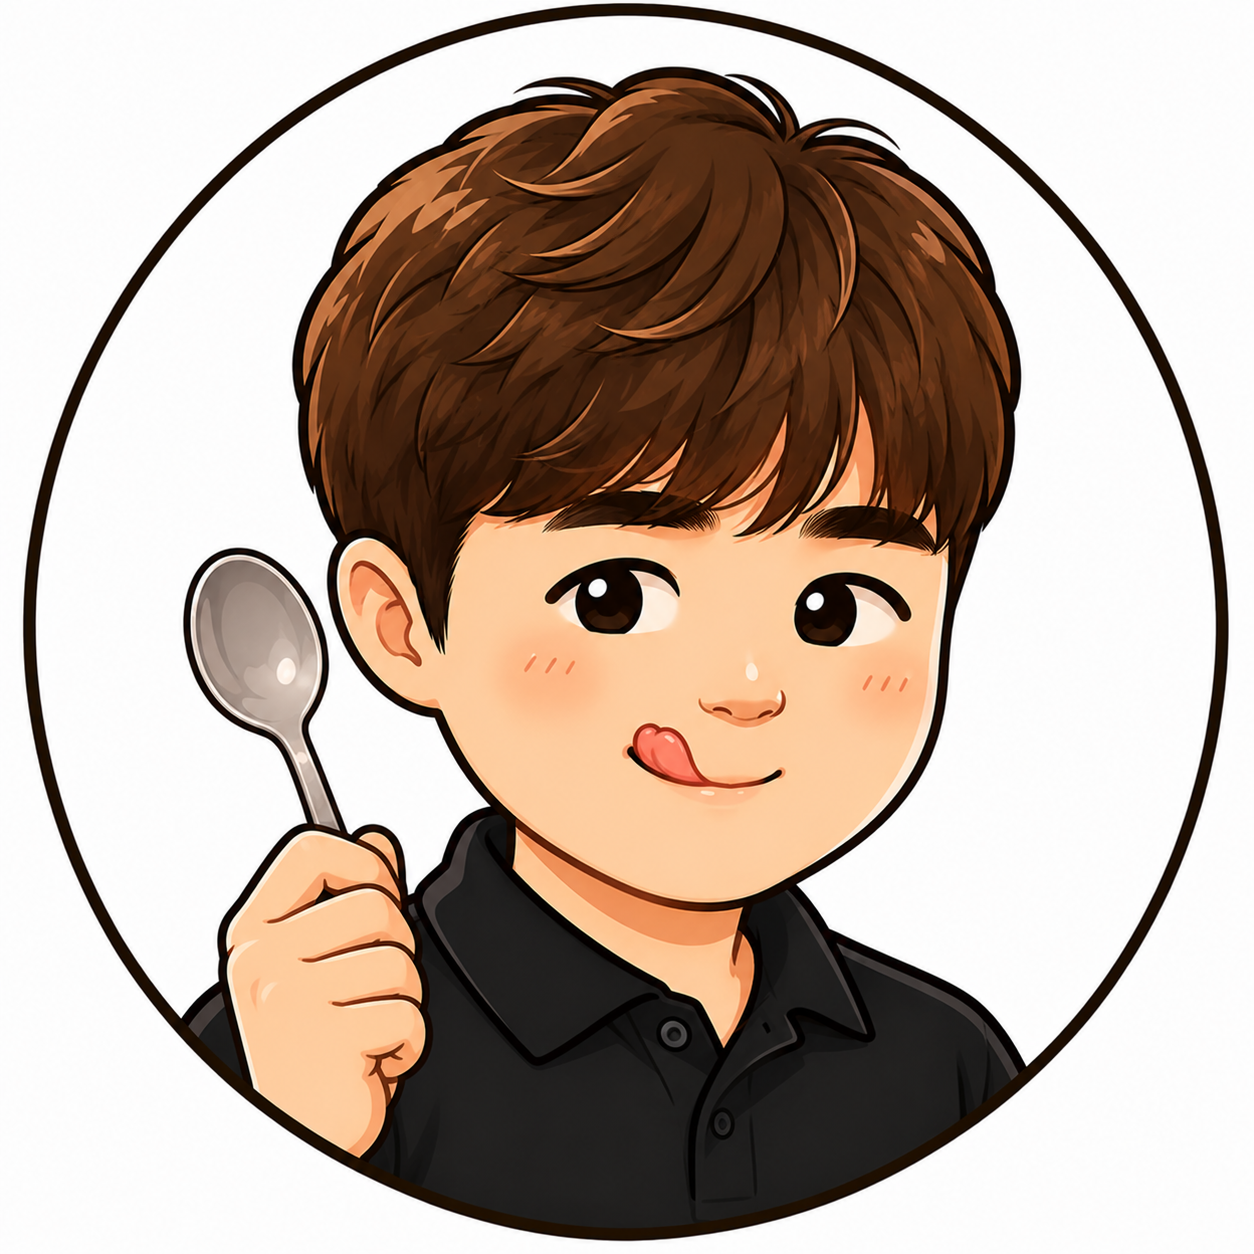
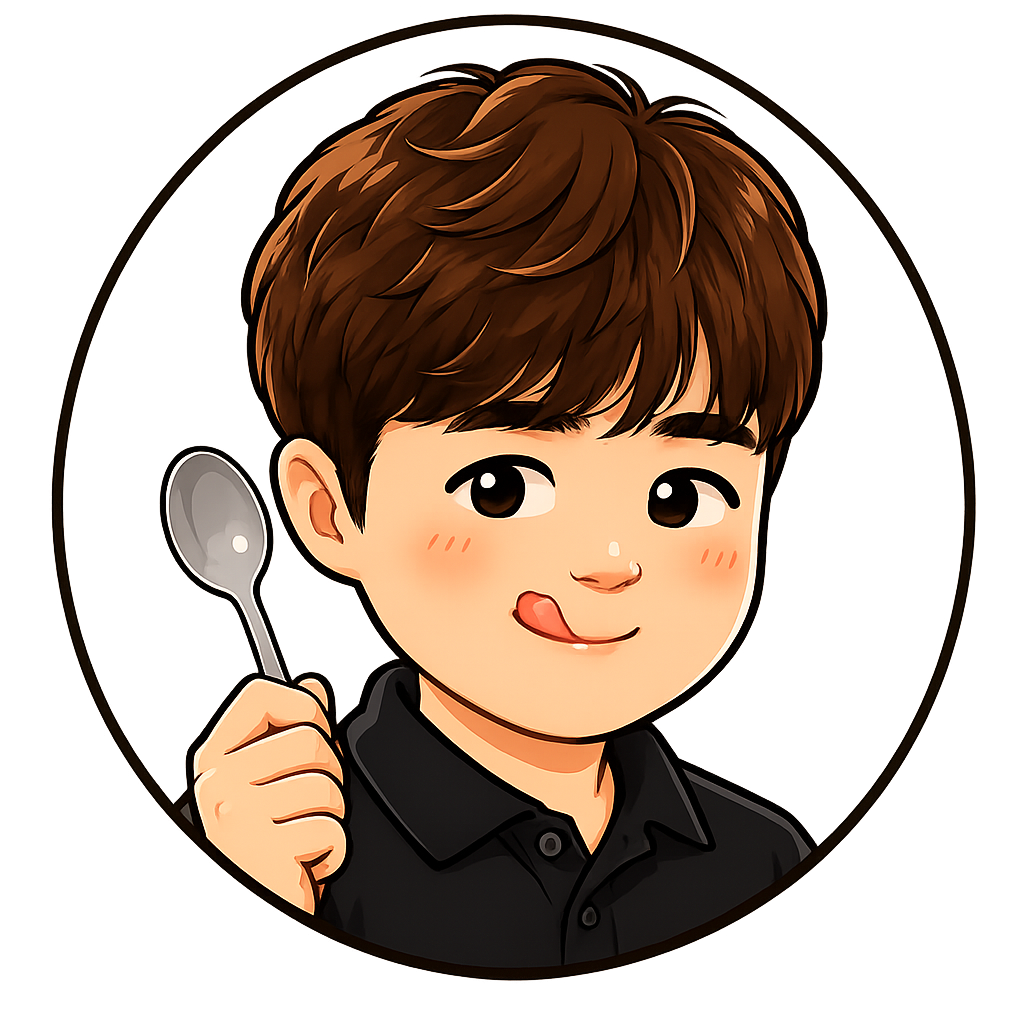
character-bug-fix

diff --git a/index.html b/index.html
@@ -84,6 +84,7 @@ button{border:0;cursor:pointer;font:inherit}
   padding:25px 26px;
   position:relative;overflow:hidden;
   display:flex;flex-direction:column;justify-content:center;align-items:flex-start;
+  container-type:inline-size;
 }
 .today-card:before{
   content:"SSAFY 파이팅";
@@ -93,6 +94,14 @@ button{border:0;cursor:pointer;font:inherit}
 }
 .today-card h2{margin:14px 0 6px;font-size:24px;letter-spacing:-.04em}
 .today-character{position:absolute;right:32px;bottom:16px;width:clamp(99px,9vw,136px);height:auto;object-fit:contain;pointer-events:none;user-select:none}
+
+@container (max-width:390px){
+  .today-character{width:108px}
+}
+
+@container (max-width:340px){
+  .today-character{display:none}
+}
 
 .date-controls{display:block;margin-bottom:16px}
 .date-navigator{
